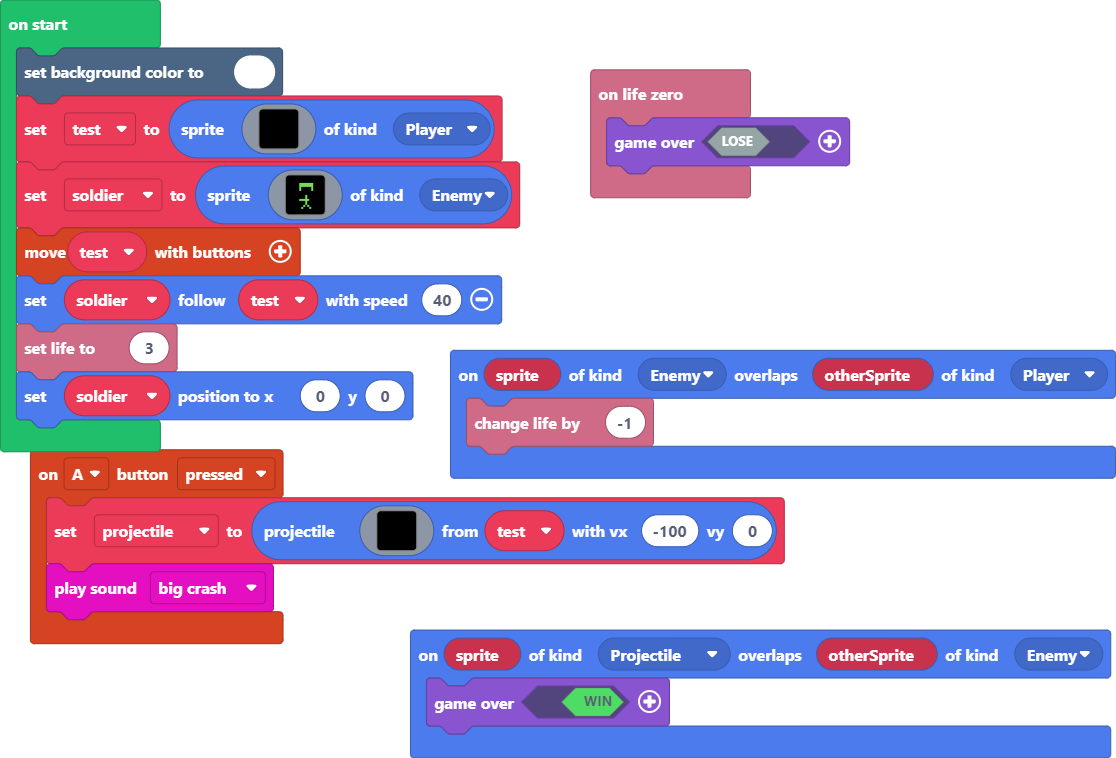
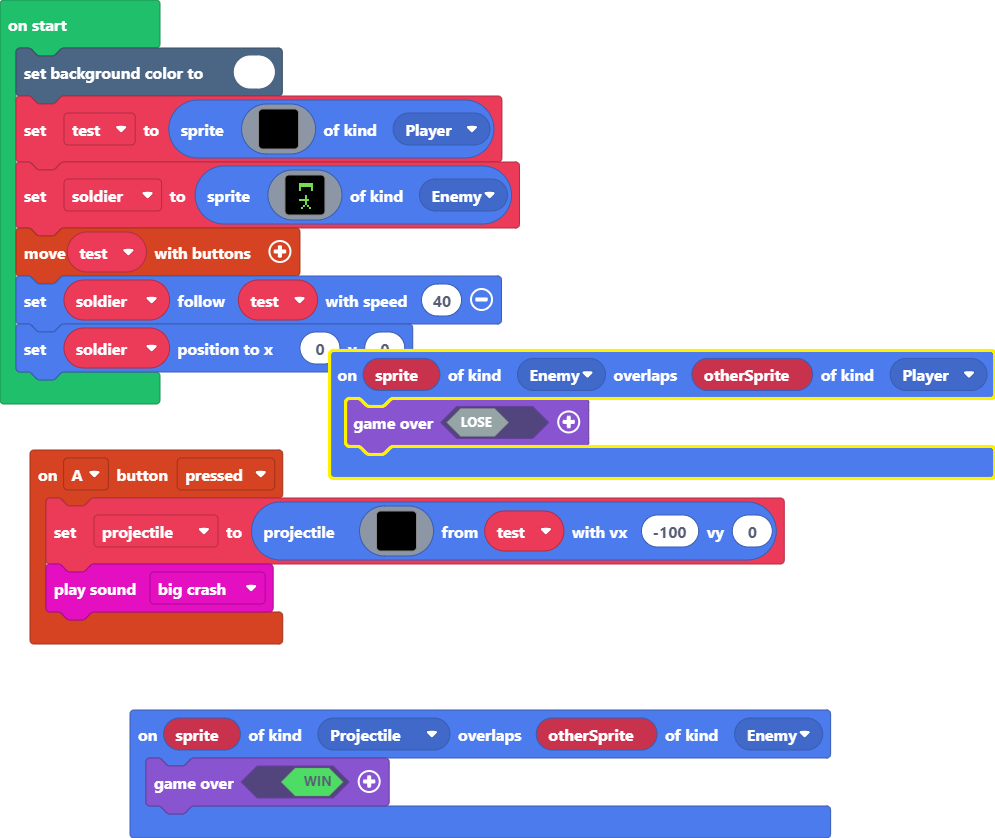
Update main.blocks, main.ts

diff --git a/main.ts b/main.ts
@@ -20,9 +20,6 @@ controller.A.onEvent(ControllerButtonEvent.Pressed, function () {
     music.bigCrash.play()
 })
 sprites.onOverlap(SpriteKind.Enemy, SpriteKind.Player, function (sprite, otherSprite) {
-    info.changeLifeBy(-1)
-})
-info.onLifeZero(function () {
     game.over(false)
 })
 sprites.onOverlap(SpriteKind.Projectile, SpriteKind.Enemy, function (sprite, otherSprite) {
@@ -69,5 +66,4 @@ let soldier = sprites.create(img`
     `, SpriteKind.Enemy)
 controller.moveSprite(test)
 soldier.follow(test, 40)
-info.setLife(3)
 soldier.setPosition(0, 0)
